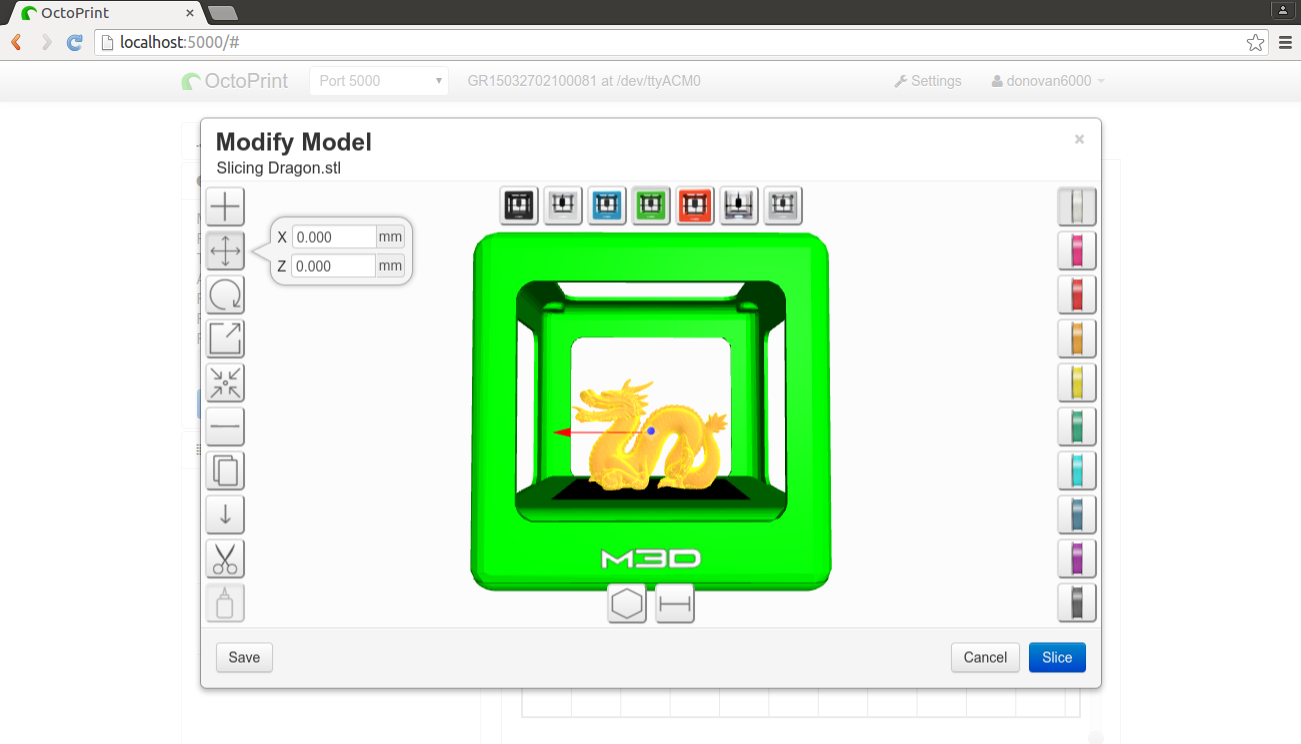
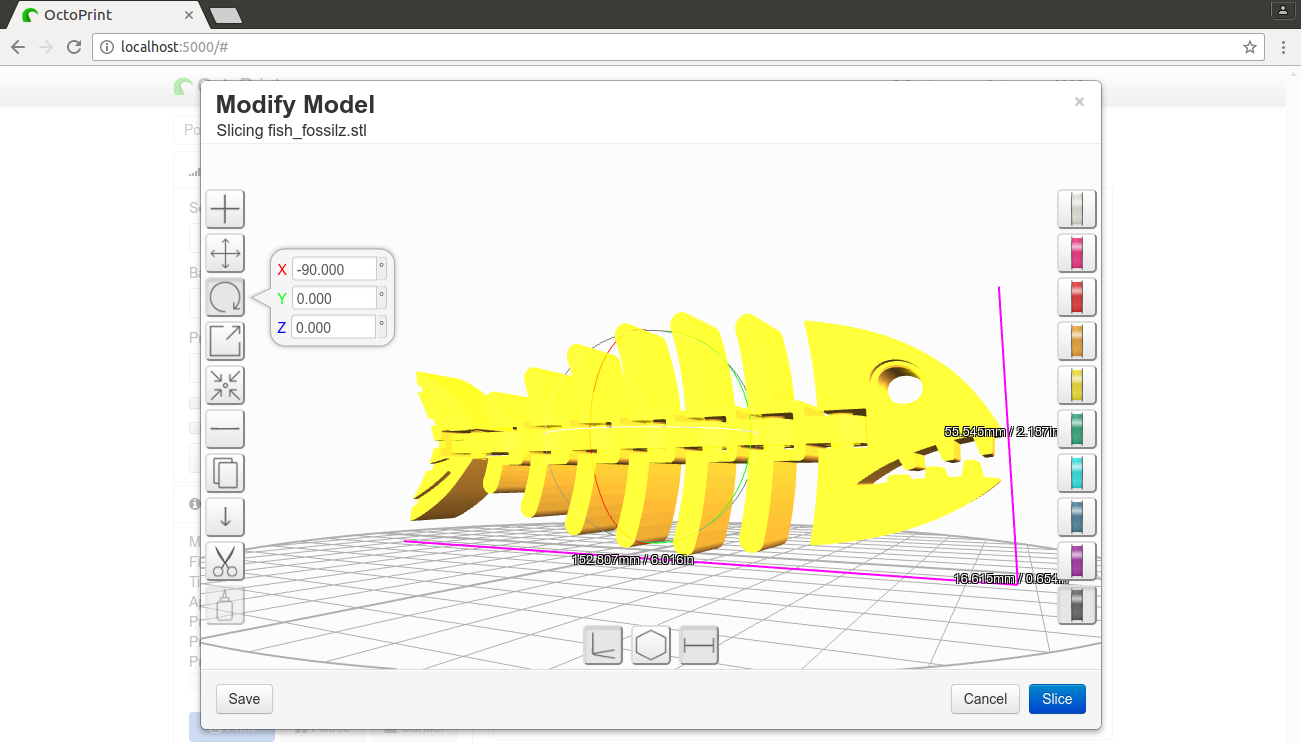
Updated M33 Fio's description

diff --git a/_plugins/m33fio.md b/_plugins/m33fio.md
@@ -3,11 +3,11 @@ layout: plugin
 
 id: m33fio
 title: M33 Fio
-description: Makes OctoPrint fully compatible with the Micro 3D printer
+description: Allows viewing uploaded models, using a Micro 3D printer, modifying a slicer profile and model before slicing, uploading OBJs and other 3D file formats, hosting a webcam stream, and much more
 author: donovan6000
 license: GPLv3
 
-date: 2016-01-11
+date: 2016-10-25
 
 homepage: https://github.com/donovan6000/M33-Fio
 source: https://github.com/donovan6000/M33-Fio
@@ -16,26 +16,27 @@ archive: https://github.com/donovan6000/M33-Fio/archive/master.zip
 follow_dependency_links: false
 
 tags:
-- micro 3d
 - m33 fio
+- micro 3d
 - helper
+- ui
 
 screenshots:
-- url: /assets/img/plugins/m33fio/controls.png
-  alt: Controls
-  caption: Controls
-- url: /assets/img/plugins/m33fio/settings.png
-  alt: Settings
-  caption: Settings
 - url: /assets/img/plugins/m33fio/model_editor.png
   alt: Model Editor
   caption: Model Editor
+- url: /assets/img/plugins/m33fio/profile_editor.png
+  alt: Profile Editor
+  caption: Profile Editor
+- url: /assets/img/plugins/m33fio/model_viewer.png
+  alt: Model Viewer
+  caption: Model Viewer
 
-featuredimage: /assets/img/plugins/m33fio/controls.png
+featuredimage: /assets/img/plugins/m33fio/model_editor.png
 
 compatibility:
   octoprint:
-  - 1.2.6
+  - 1.2.0
 
   os:
   - linux
@@ -43,4 +44,15 @@ compatibility:
   - macos
 ---
 
-M33 Fio provides a complete, platform independent alternative to the printer's official software. It implements all the necessary controls and settings to fully utilize all of the printer's functionality, and it expands on some of OctoPrint's existing capabilities to make them more suitable for the Micro 3D printer.
+M33 Fio extends OctoPrint's capabilities to include the following features:
+
+- Adds a model viewer tab to OctoPrint's interface where any uploaded model can be viewed
+- Allows importing OBJ, M3D, AMF, VRML, COLLADA, and 3MF files into OctoPrint
+- Updates OctoPrint's list of available serial ports in real time
+- Includes an OctoPrint instance manager that can create and terminate OctoPrint instances which allows easily running multiple printers on the same host
+- Adds support for the Micro 3D printer
+- Wraps groups of buttons in OctoPrint's controls tab into sections that can be collapsed and expanded
+- Capable of hosting a webcam stream and configuring OctoPrint to use it
+- Disables the hosts sleep functionality when printing
+- Includes a slicer profile editor that allows customizing everything in the selected slicer profile before slicing
+- Includes a model editor that allows modifying a model before slicing and can perform operations like moving, rotating, scaling, cutting, merging, cloning, and importing other models into the scene
